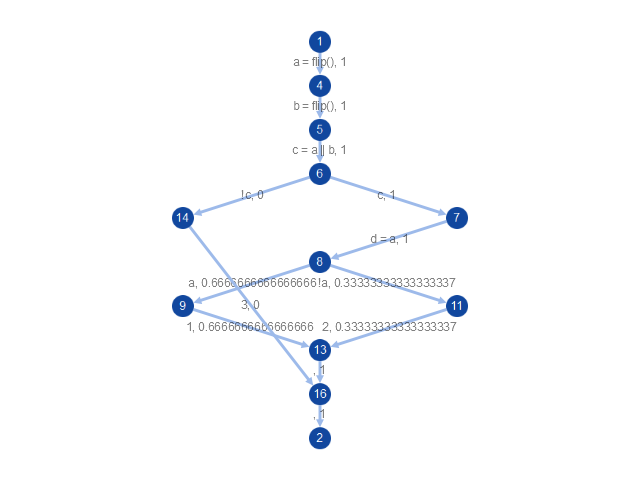
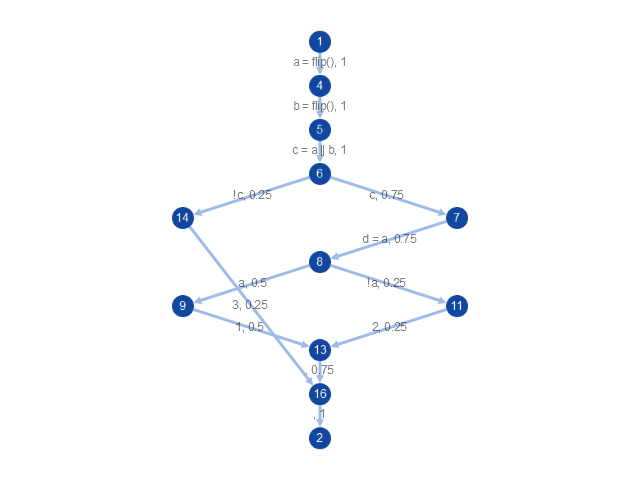
Add conditioning through multiple nodes

diff --git a/webPPLCFG.js b/webPPLCFG.js
@@ -436,7 +436,16 @@ let oOption = typeof argv.o !== 'undefined';
 let outputPNGFile = oOption ? argv.o : "out.png";
 let rOption = typeof argv.r !== 'undefined';
 let cOption = typeof argv.c !== 'undefined';
-let cOptionValue = argv.c;
+let cOptionValues = [ argv.c ];
+if (!cOption) {
+    cOptionValues = [];
+}
+else if (typeof argv.c !== 'number') {
+    cOptionValues = argv.c.split(',');
+    for (let i = 0; i < cOptionValues.length; i++) {
+        cOptionValues[i] = parseInt(cOptionValues[i], 10);
+    }
+}
 
 fs.readFile(programFile, 'utf8', function(err, code) {
     if (err) {
@@ -457,7 +466,11 @@ fs.readFile(programFile, 'utf8', function(err, code) {
     let cfgAnalyzer = new CFGAnalyzer();
     let nodeConditioningInfo = null;
     if (cOption) {
-        let viableEdges = cfgAnalyzer.getEdgesOfPathsThroughNode(graph, controlFlowInfo.flowGraph, cOptionValue);
+        let viableEdges = [];
+        for (let i = 0; i < cOptionValues.length; i++) {
+            let cOptionValue = cOptionValues[i];
+            viableEdges = viableEdges.concat(cfgAnalyzer.getEdgesOfPathsThroughNode(graph, controlFlowInfo.flowGraph, cOptionValue));
+        }
         if (viableEdges !== null) {
             nodeConditioningInfo = { 
                 'viableEdges': viableEdges, 
